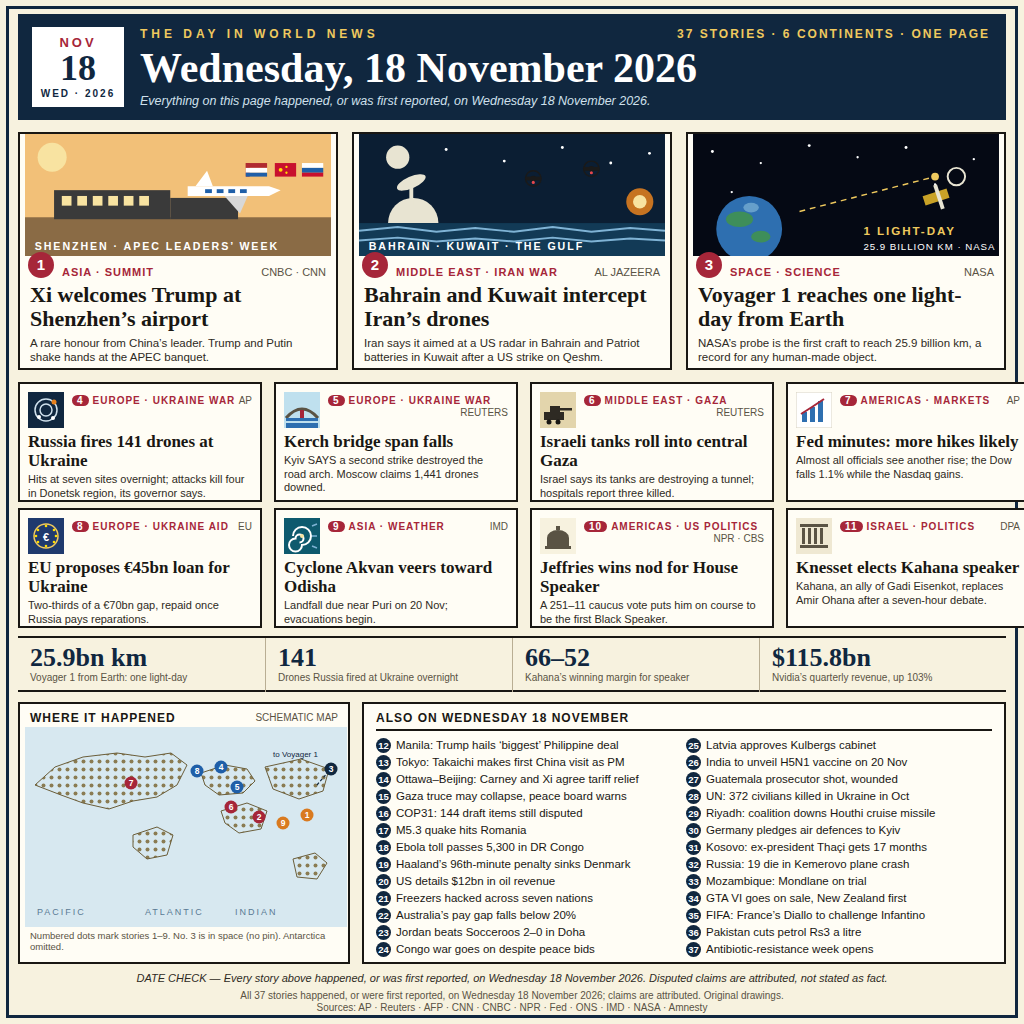
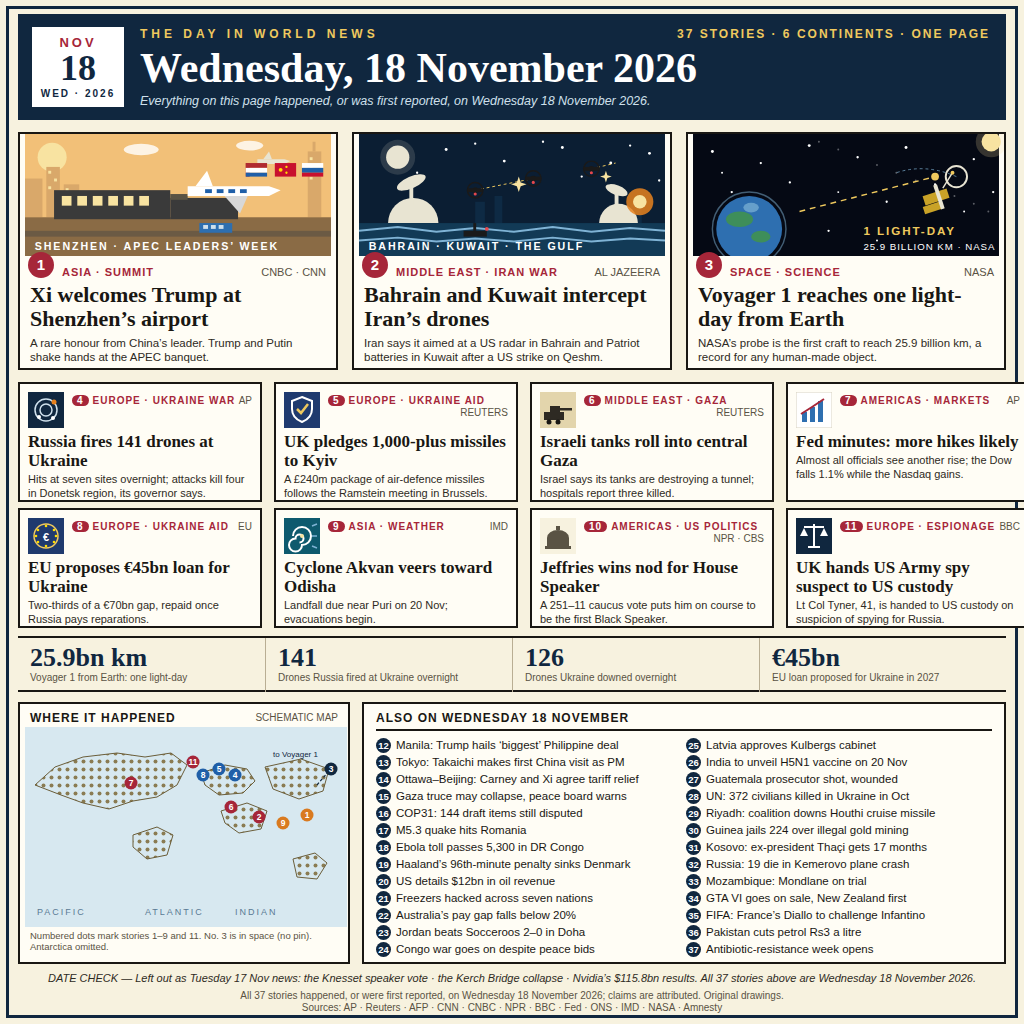
news-image-20261118 revision-2e: fix 3 wrong dates (Kahana/Kerch/Nvidia were 17 Nov), richer feature scenes, specific DATE CHECK (HQ-N18R2-#5a)

diff --git a/render.html b/render.html
@@ -85,14 +85,28 @@
     <svg class="scene" viewBox="0 0 316 126" xmlns="http://www.w3.org/2000/svg">
       <rect width="316" height="126" fill="#F2C078"/>
       <circle cx="28" cy="24" r="15" fill="#F8E3A1"/>
+      <ellipse cx="120" cy="16" rx="18" ry="6" fill="#FFFFFF" opacity="0.8"/>
+      <ellipse cx="232" cy="12" rx="14" ry="5" fill="#FFFFFF" opacity="0.8"/>
+      <rect x="0" y="46" width="18" height="40" fill="#D9A86A"/>
+      <rect x="22" y="34" width="14" height="52" fill="#D9A86A"/>
+      <rect x="40" y="52" width="16" height="34" fill="#D9A86A"/>
+      <rect x="292" y="18" width="14" height="68" fill="#D9A86A"/>
+      <rect x="297" y="8" width="3" height="10" fill="#D9A86A"/>
+      <rect x="24" y="38" width="3" height="3" fill="#F8E3A1"/><rect x="30" y="46" width="3" height="3" fill="#F8E3A1"/><rect x="24" y="54" width="3" height="3" fill="#F8E3A1"/><rect x="42" y="56" width="3" height="3" fill="#F8E3A1"/><rect x="294" y="24" width="3" height="3" fill="#F8E3A1"/><rect x="294" y="34" width="3" height="3" fill="#F8E3A1"/><rect x="294" y="44" width="3" height="3" fill="#F8E3A1"/>
+      <polygon points="240,26 268,26 274,28 268,31 240,31" fill="#E8E4D2"/>
+      <polygon points="246,26 252,18 255,26" fill="#E8E4D2"/>
       <rect x="0" y="86" width="316" height="40" fill="#8A6B45"/>
+      <rect x="0" y="100" width="316" height="6" fill="#6B5A44"/>
       <rect x="30" y="58" width="120" height="30" fill="#3A3A3A"/>
       <rect x="38" y="64" width="10" height="10" fill="#F8E3A1"/><rect x="54" y="64" width="10" height="10" fill="#F8E3A1"/><rect x="70" y="64" width="10" height="10" fill="#F8E3A1"/><rect x="86" y="64" width="10" height="10" fill="#F8E3A1"/><rect x="102" y="64" width="10" height="10" fill="#F8E3A1"/><rect x="118" y="64" width="10" height="10" fill="#F8E3A1"/>
       <rect x="150" y="66" width="70" height="22" fill="#3A3A3A"/>
+      <rect x="150" y="62" width="18" height="6" fill="#5A5344"/>
       <polygon points="168,54 252,54 264,58 252,64 168,64" fill="#FFFFFF"/>
       <polygon points="176,54 188,38 194,54" fill="#FFFFFF"/>
       <polygon points="206,64 222,82 230,64" fill="#D8D8D8"/>
       <rect x="186" y="57" width="7" height="4" fill="#1F5FA8"/><rect x="198" y="57" width="7" height="4" fill="#1F5FA8"/><rect x="210" y="57" width="7" height="4" fill="#1F5FA8"/><rect x="222" y="57" width="7" height="4" fill="#1F5FA8"/>
+      <rect x="180" y="92" width="34" height="10" fill="#2E6FB0"/>
+      <rect x="184" y="94" width="5" height="4" fill="#CFE0EC"/><rect x="192" y="94" width="5" height="4" fill="#CFE0EC"/><rect x="200" y="94" width="5" height="4" fill="#CFE0EC"/>
       <rect x="228" y="30" width="4" height="14" fill="#B02A30"/>
       <rect x="228" y="30" width="22" height="5" fill="#B02A30"/><rect x="228" y="35" width="22" height="5" fill="#FFFFFF"/><rect x="228" y="40" width="22" height="4" fill="#1F5FA8"/>
       <rect x="258" y="30" width="22" height="14" fill="#C8102E"/>
@@ -109,20 +123,36 @@
   <div class="feat f2">
     <svg class="scene" viewBox="0 0 316 126" xmlns="http://www.w3.org/2000/svg">
       <rect width="316" height="126" fill="#0B1E33"/>
+      <circle cx="40" cy="24" r="18" fill="#E8E4D2" opacity="0.15"/>
       <circle cx="40" cy="24" r="12" fill="#E8E4D2"/>
       <circle cx="90" cy="16" r="1.5" fill="#FFFFFF"/><circle cx="150" cy="28" r="1.5" fill="#FFFFFF"/><circle cx="210" cy="14" r="1.5" fill="#FFFFFF"/><circle cx="260" cy="30" r="1.5" fill="#FFFFFF"/><circle cx="300" cy="20" r="1.5" fill="#FFFFFF"/>
+      <circle cx="60" cy="40" r="1.2" fill="#FFFFFF"/><circle cx="120" cy="10" r="1.2" fill="#FFFFFF"/><circle cx="190" cy="8" r="1.2" fill="#FFFFFF"/><circle cx="230" cy="44" r="1.2" fill="#FFFFFF"/><circle cx="280" cy="12" r="1.2" fill="#FFFFFF"/><circle cx="310" cy="48" r="1.2" fill="#FFFFFF"/>
+      <rect x="120" y="70" width="10" height="22" fill="#0E2A44"/><rect x="140" y="64" width="8" height="28" fill="#0E2A44"/><rect x="280" y="72" width="12" height="20" fill="#0E2A44"/>
       <rect x="0" y="92" width="316" height="34" fill="#123A56"/>
       <path d="M0,100 L40,96 L80,101 L120,97 L160,101 L200,96 L240,101 L280,97 L316,100" stroke="#7FB3D5" stroke-width="2" fill="none"/>
       <path d="M0,110 L40,107 L80,111 L120,108 L160,111 L200,107 L240,111 L280,108 L316,110" stroke="#7FB3D5" stroke-width="2" fill="none"/>
       <path d="M30,92 A26,26 0 0 1 82,92 Z" fill="#E8E4D2"/>
       <rect x="52" y="52" width="4" height="22" fill="#E8E4D2"/>
       <ellipse cx="54" cy="50" rx="16" ry="6" fill="#E8E4D2" transform="rotate(-24 54 50)"/>
+      <path d="M248,92 A20,20 0 0 1 288,92 Z" fill="#E8E4D2"/>
+      <rect x="264" y="60" width="4" height="18" fill="#E8E4D2"/>
+      <ellipse cx="266" cy="58" rx="12" ry="5" fill="#E8E4D2" transform="rotate(20 266 58)"/>
+      <path d="M120,58 L150,52 L180,46" stroke="#EFC95E" stroke-width="1" stroke-dasharray="3 3" fill="none"/>
+      <path d="M240,36 L265,30" stroke="#EFC95E" stroke-width="1" stroke-dasharray="3 3" fill="none"/>
+      <circle cx="120" cy="58" r="3" fill="#1A1A1A"/><circle cx="120" cy="58" r="8" fill="none" stroke="#1A1A1A" stroke-width="1.5"/>
+      <rect x="112" y="56" width="16" height="4" fill="#1A1A1A"/>
+      <circle cx="120" cy="62" r="1.6" fill="#E5484D"/>
       <circle cx="180" cy="46" r="3" fill="#1A1A1A"/><circle cx="180" cy="46" r="8" fill="none" stroke="#1A1A1A" stroke-width="1.5"/>
       <rect x="172" y="44" width="16" height="4" fill="#1A1A1A"/>
       <circle cx="180" cy="50" r="1.6" fill="#E5484D"/>
       <circle cx="240" cy="36" r="3" fill="#1A1A1A"/><circle cx="240" cy="36" r="8" fill="none" stroke="#1A1A1A" stroke-width="1.5"/>
       <rect x="232" y="34" width="16" height="4" fill="#1A1A1A"/>
       <circle cx="240" cy="40" r="1.6" fill="#E5484D"/>
+      <path d="M165,44 L167,50 L173,52 L167,54 L165,60 L163,54 L157,52 L163,50 Z" fill="#F8E3A1"/>
+      <path d="M255,38 L256.5,42.5 L261,44 L256.5,45.5 L255,50 L253.5,45.5 L249,44 L253.5,42.5 Z" fill="#F8E3A1"/>
+      <rect x="108" y="100" width="24" height="6" fill="#1A1A1A"/>
+      <rect x="118" y="92" width="3" height="8" fill="#1A1A1A"/>
+      <circle cx="132" cy="98" r="2" fill="#E5484D"/>
       <circle cx="290" cy="70" r="14" fill="#E8821E" opacity="0.85"/>
       <circle cx="290" cy="70" r="7" fill="#F8E3A1"/>
       <text x="10" y="120" font-family="Liberation Sans, sans-serif" font-size="11" font-weight="bold" letter-spacing="2" fill="#FFFFFF">BAHRAIN &middot; KUWAIT &middot; THE GULF</text>
@@ -137,13 +167,22 @@
     <svg class="scene" viewBox="0 0 316 126" xmlns="http://www.w3.org/2000/svg">
       <rect width="316" height="126" fill="#050914"/>
       <circle cx="20" cy="18" r="1.5" fill="#FFFFFF"/><circle cx="70" cy="30" r="1.2" fill="#FFFFFF"/><circle cx="120" cy="12" r="1.5" fill="#FFFFFF"/><circle cx="170" cy="24" r="1.2" fill="#FFFFFF"/><circle cx="220" cy="14" r="1.5" fill="#FFFFFF"/><circle cx="290" cy="26" r="1.2" fill="#FFFFFF"/><circle cx="250" cy="52" r="1.2" fill="#FFFFFF"/><circle cx="40" cy="60" r="1.2" fill="#FFFFFF"/>
+      <circle cx="100" cy="50" r="1.2" fill="#FFFFFF"/><circle cx="150" cy="60" r="1" fill="#FFFFFF"/><circle cx="200" cy="70" r="1.2" fill="#FFFFFF"/><circle cx="280" cy="80" r="1" fill="#FFFFFF"/><circle cx="310" cy="60" r="1.2" fill="#FFFFFF"/><circle cx="30" cy="40" r="1" fill="#FFFFFF"/><circle cx="140" cy="100" r="1.2" fill="#FFFFFF"/><circle cx="190" cy="110" r="1" fill="#FFFFFF"/>
+      <circle cx="130" cy="8" r="1" fill="#FFFFFF" opacity="0.35"/><circle cx="150" cy="16" r="1" fill="#FFFFFF" opacity="0.35"/><circle cx="170" cy="24" r="1" fill="#FFFFFF" opacity="0.35"/><circle cx="190" cy="32" r="1" fill="#FFFFFF" opacity="0.35"/><circle cx="210" cy="40" r="1" fill="#FFFFFF" opacity="0.35"/><circle cx="230" cy="48" r="1" fill="#FFFFFF" opacity="0.35"/><circle cx="250" cy="56" r="1" fill="#FFFFFF" opacity="0.35"/><circle cx="270" cy="64" r="1" fill="#FFFFFF" opacity="0.35"/><circle cx="290" cy="72" r="1" fill="#FFFFFF" opacity="0.35"/><circle cx="305" cy="80" r="1" fill="#FFFFFF" opacity="0.35"/>
+      <circle cx="308" cy="8" r="16" fill="#F8E3A1" opacity="0.2"/>
+      <circle cx="308" cy="8" r="10" fill="#F8E3A1"/>
+      <circle cx="58" cy="98" r="38" fill="none" stroke="#7FB3D5" stroke-width="1.5" opacity="0.5"/>
       <circle cx="58" cy="98" r="34" fill="#2E6FB0"/>
       <ellipse cx="48" cy="88" rx="14" ry="8" fill="#3E8E5A"/><ellipse cx="70" cy="106" rx="10" ry="6" fill="#3E8E5A"/><ellipse cx="60" cy="76" rx="8" ry="5" fill="#7FB3D5" opacity="0.7"/>
       <path d="M110,80 L250,44" stroke="#EFC95E" stroke-width="1.5" stroke-dasharray="6 5" fill="none"/>
       <circle cx="250" cy="44" r="4" fill="#EFC95E"/>
+      <path d="M272,44 Q240,30 210,40" stroke="#7FB3D5" stroke-width="1" stroke-dasharray="3 3" fill="none" opacity="0.7"/>
       <rect x="238" y="60" width="26" height="10" fill="#C9A227" transform="rotate(-18 251 65)"/>
+      <rect x="238" y="72" width="20" height="8" fill="#C9A227" transform="rotate(-18 248 76)"/>
       <rect x="252" y="52" width="4" height="26" fill="#E8E4D2" transform="rotate(-18 254 65)"/>
-      <circle cx="272" cy="44" r="9" fill="none" stroke="#E8E4D2" stroke-width="2"/>
+      <path d="M258,56 L268,40" stroke="#E8E4D2" stroke-width="1.5"/>
+      <circle cx="268" cy="40" r="2" fill="#EFC95E"/>
+      <circle cx="272" cy="44" r="11" fill="none" stroke="#E8E4D2" stroke-width="2"/>
       <text x="176" y="104" font-family="Liberation Sans, sans-serif" font-size="12" font-weight="bold" letter-spacing="2" fill="#EFC95E">1 LIGHT-DAY</text>
       <text x="176" y="120" font-family="Liberation Sans, sans-serif" font-size="10" letter-spacing="1" fill="#FFFFFF">25.9 BILLION KM &middot; NASA</text>
     </svg>
@@ -168,15 +207,13 @@
 
   <div class="second s5">
     <svg class="chip" viewBox="0 0 36 36" xmlns="http://www.w3.org/2000/svg">
-      <rect width="36" height="36" fill="#BFE0EE"/>
-      <path d="M2,26 Q18,8 34,26" stroke="#5A5344" stroke-width="3" fill="none"/>
-      <rect x="2" y="26" width="32" height="3" fill="#2E6FB0"/>
-      <rect x="16" y="18" width="4" height="8" fill="#A62639"/>
-      <rect x="2" y="31" width="32" height="5" fill="#2E6FB0"/>
+      <rect width="36" height="36" fill="#1F3A6E"/>
+      <path d="M18,5 L28,9 V17 C28,24 23,28 18,30 C13,28 8,24 8,17 V9 Z" fill="none" stroke="#FFFFFF" stroke-width="2"/>
+      <path d="M13,17 L17,21 L24,12" stroke="#EFC95E" stroke-width="2.5" fill="none"/>
     </svg>
-    <div class="tag"><span class="n">5</span>EUROPE &middot; UKRAINE WAR <span class="src">REUTERS</span></div>
-    <h3>Kerch bridge span falls</h3>
-    <p>Kyiv SAYS a second strike destroyed the road arch. Moscow claims 1,441 drones downed.</p>
+    <div class="tag"><span class="n">5</span>EUROPE &middot; UKRAINE AID <span class="src">REUTERS</span></div>
+    <h3>UK pledges 1,000-plus missiles to Kyiv</h3>
+    <p>A &pound;240m package of air-defence missiles follows the Ramstein meeting in Brussels.</p>
   </div>
 
   <div class="second s6">
@@ -243,21 +280,23 @@
 
   <div class="second s11">
     <svg class="chip" viewBox="0 0 36 36" xmlns="http://www.w3.org/2000/svg">
-      <rect width="36" height="36" fill="#EFE8D2"/>
-      <rect x="6" y="10" width="3" height="16" fill="#5A5344"/><rect x="12" y="10" width="3" height="16" fill="#5A5344"/><rect x="18" y="10" width="3" height="16" fill="#5A5344"/><rect x="24" y="10" width="3" height="16" fill="#5A5344"/>
-      <rect x="4" y="6" width="28" height="3" fill="#5A5344"/>
-      <rect x="4" y="27" width="28" height="3" fill="#5A5344"/>
+      <rect width="36" height="36" fill="#10273F"/>
+      <rect x="17" y="6" width="2" height="22" fill="#FFFFFF"/>
+      <rect x="8" y="8" width="20" height="2" fill="#FFFFFF"/>
+      <path d="M8,10 L4,18 L12,18 Z" fill="#FFFFFF"/>
+      <path d="M28,10 L24,18 L32,18 Z" fill="#FFFFFF"/>
+      <rect x="12" y="28" width="12" height="2" fill="#FFFFFF"/>
     </svg>
-    <div class="tag"><span class="n">11</span>ISRAEL &middot; POLITICS <span class="src">DPA</span></div>
-    <h3>Knesset elects Kahana speaker</h3>
-    <p>Kahana, an ally of Gadi Eisenkot, replaces Amir Ohana after a seven-hour debate.</p>
+    <div class="tag"><span class="n">11</span>EUROPE &middot; ESPIONAGE <span class="src">BBC</span></div>
+    <h3>UK hands US Army spy suspect to US custody</h3>
+    <p>Lt Col Tyner, 41, is handed to US custody on suspicion of spying for Russia.</p>
   </div>
 
   <div class="nums">
     <div class="cell c1"><div class="big">25.9bn km</div><div class="lab">Voyager 1 from Earth: one light-day</div></div>
     <div class="cell c2"><div class="big">141</div><div class="lab">Drones Russia fired at Ukraine overnight</div></div>
-    <div class="cell c3"><div class="big">66&ndash;52</div><div class="lab">Kahana&rsquo;s winning margin for speaker</div></div>
-    <div class="cell c4"><div class="big">$115.8bn</div><div class="lab">Nvidia&rsquo;s quarterly revenue, up 103%</div></div>
+    <div class="cell c3"><div class="big">126</div><div class="lab">Drones Ukraine downed overnight</div></div>
+    <div class="cell c4"><div class="big">&euro;45bn</div><div class="lab">EU loan proposed for Ukraine in 2027</div></div>
   </div>
 
   <div class="bottom">
@@ -290,10 +329,11 @@
         <text x="210" y="188" font-family="Liberation Sans, sans-serif" font-size="9" letter-spacing="2" fill="#5A7A94">INDIAN</text>
         <g font-family="Liberation Sans, sans-serif" font-size="8.5" font-weight="bold" fill="#FFFFFF" text-anchor="middle">
           <circle cx="106" cy="56" r="6.5" fill="#A62639"/><text x="106" y="59">7</text>
-          <circle cx="196" cy="40" r="6.5" fill="#1F5FA8"/><text x="196" y="43">4</text>
-          <circle cx="212" cy="60" r="6.5" fill="#1F5FA8"/><text x="212" y="63">5</text>
-          <circle cx="172" cy="44" r="6.5" fill="#1F5FA8"/><text x="172" y="47">8</text>
+          <circle cx="210" cy="48" r="6.5" fill="#1F5FA8"/><text x="210" y="51">4</text>
+          <circle cx="194" cy="42" r="6.5" fill="#1F5FA8"/><text x="194" y="45">5</text>
+          <circle cx="178" cy="48" r="6.5" fill="#1F5FA8"/><text x="178" y="51">8</text>
           <circle cx="206" cy="80" r="6.5" fill="#A62639"/><text x="206" y="83">6</text>
+          <circle cx="168" cy="35" r="6.5" fill="#A62639"/><text x="168" y="38">11</text>
           <circle cx="234" cy="90" r="6.5" fill="#A62639"/><text x="234" y="93">2</text>
           <circle cx="258" cy="96" r="6.5" fill="#D97A1F"/><text x="258" y="99">9</text>
           <circle cx="282" cy="88" r="6.5" fill="#D97A1F"/><text x="282" y="91">1</text>
@@ -302,7 +342,7 @@
         <circle cx="306" cy="42" r="6.5" fill="#10273F"/><text x="306" y="45" font-family="Liberation Sans, sans-serif" font-size="8.5" font-weight="bold" fill="#FFFFFF" text-anchor="middle">3</text>
         <text x="248" y="30" font-family="Liberation Sans, sans-serif" font-size="8" fill="#10273F">to Voyager 1</text>
       </svg>
-      <div class="note">Numbered dots mark stories 1&ndash;9. No. 3 is in space (no pin). Antarctica omitted.</div>
+      <div class="note">Numbered dots mark stories 1&ndash;9 and 11. No. 3 is in space (no pin). Antarctica omitted.</div>
     </div>
     <div class="roll">
       <div class="rtitle">ALSO ON WEDNESDAY 18 NOVEMBER</div>
@@ -327,7 +367,7 @@
         <div class="ritem"><span class="n">27</span>Guatemala prosecutor shot, wounded</div>
         <div class="ritem"><span class="n">28</span>UN: 372 civilians killed in Ukraine in Oct</div>
         <div class="ritem"><span class="n">29</span>Riyadh: coalition downs Houthi cruise missile</div>
-        <div class="ritem"><span class="n">30</span>Germany pledges air defences to Kyiv</div>
+        <div class="ritem"><span class="n">30</span>Guinea jails 224 over illegal gold mining</div>
         <div class="ritem"><span class="n">31</span>Kosovo: ex-president Tha&ccedil;i gets 17 months</div>
         <div class="ritem"><span class="n">32</span>Russia: 19 die in Kemerovo plane crash</div>
         <div class="ritem"><span class="n">33</span>Mozambique: Mondlane on trial</div>
@@ -339,8 +379,8 @@
     </div>
   </div>
 
-  <div class="check">DATE CHECK &mdash; Every story above happened, or was first reported, on Wednesday 18 November 2026. Disputed claims are attributed, not stated as fact.</div>
-  <div class="foot">All 37 stories happened, or were first reported, on Wednesday 18 November 2026; claims are attributed. Original drawings.<br>Sources: AP &middot; Reuters &middot; AFP &middot; CNN &middot; CNBC &middot; NPR &middot; Fed &middot; ONS &middot; IMD &middot; NASA &middot; Amnesty</div>
+  <div class="check">DATE CHECK &mdash; Left out as Tuesday 17 Nov news: the Knesset speaker vote &middot; the Kerch Bridge collapse &middot; Nvidia&rsquo;s $115.8bn results. All 37 stories above are Wednesday 18 November 2026.</div>
+  <div class="foot">All 37 stories happened, or were first reported, on Wednesday 18 November 2026; claims are attributed. Original drawings.<br>Sources: AP &middot; Reuters &middot; AFP &middot; CNN &middot; CNBC &middot; NPR &middot; BBC &middot; Fed &middot; ONS &middot; IMD &middot; NASA &middot; Amnesty</div>
 
 </div>
 </body>
